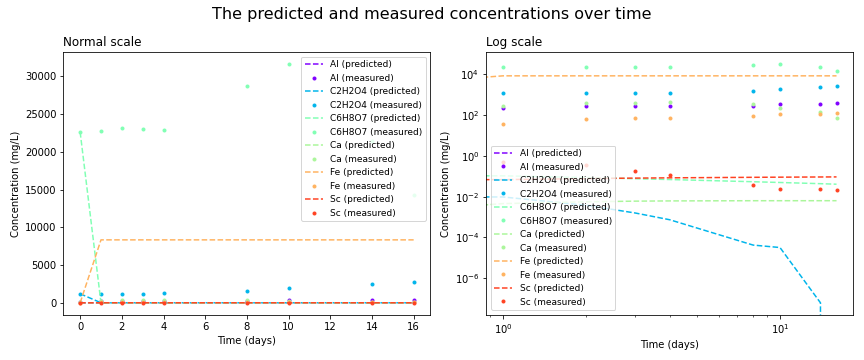
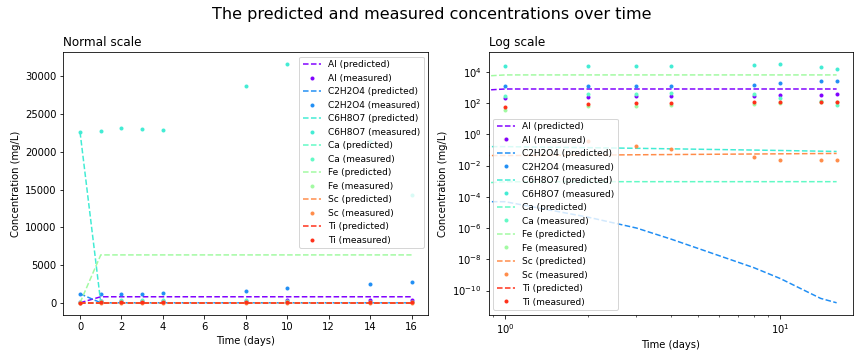
Add method to save acid production results

diff --git a/src/acid_production.py b/src/acid_production.py
@@ -5,7 +5,7 @@
 from src.rate_optimiser import custom_hop
 from scipy.integrate import solve_ivp
 from scipy.optimize import minimize, basinhopping
-# from scipy.optimize import curve_fit
+import matplotlib.pyplot as plt
 import numpy as np
 
 
@@ -18,12 +18,13 @@ r = 0.29370
 # Initial guess of fixable parameters
 class AcidAniger:
     
-    def input( self, measurements ):
+    def input( self, measurements, var_names ):
 
         # Set input attributes
         setattr( self, 'states_m', measurements[0][:, 1:] ) # measured states
-        setattr( self, 'species_m', measurements[1][1:] ) # measured species
+        setattr( self, 'vars_m', measurements[1][1:] ) # measured variables
         setattr( self, 'eval_times', measurements[0][:, 0] ) # times at which to evaluate the soln
+        setattr( self, 'var_names', var_names ) # times at which to evaluate the soln
 
         # Set maxium of the measured states
         setattr( self, 'max_measured', np.max( self.states_m ) )
@@ -122,23 +123,73 @@ class AcidAniger:
             callback=None
         ).x 
 
+        # Get optimal predicted states
+        states_p = self.solve_system( optimal_params )
+        
+        # Set results as attributes
+        setattr( self, 'popt', optimal_params )
+        setattr( self, 'states_p', states_p )
+
         return optimal_params
         
 
-    # def fit( self, params_0 ):
+    def save_results( self, eval_times=None, ignore=None, predicted=True, measured=True ): 
         
-    #     f = self.solve_flat_visible_system
-            
-    #     # xdata = np.tile( self.eval_times, 3 ) 
-    #     ydata = self.states_m.flatten()
-    #     xdata = []
-    #     # for i in range(0,3):
-            
-    #     popt, pcov = curve_fit(
-    #         f, 
-    #         xdata=xdata,
-    #         ydata=ydata,
-    #         p0=params_0
-    #     )
+        # Update predicted states, if required
+        if eval_times is None:
+            # Use existing attributes
+            eval_times = self.eval_times
+            states_p = self.states_p
+        else:
+            # Given evaluation times, derive new prediction 
+            states_p = self.solve_system( self.optimal_params, t_eval=eval_times )
+        
+        # Plot predicted and measured states
+        if ignore is None:
+            ignore = [ s for s in self.var_names if s not in self.vars_m]
+        colours = plt.cm.rainbow(np.linspace(0, 1, len(self.var_names)))
+        fig, axes = plt.subplots(1, 2, figsize=(12, 5))
+        for ax in axes:
+            # Plot predicted states
+            for i, s in enumerate( self.var_names ):
+                if s not in ignore:
+                    if predicted:
+                        ax.plot( 
+                            self.eval_times,
+                            states_p[i, :],
+                            linestyle='dashed',
+                            label=s + ' (predicted)',
+                            c=colours[i]
+                    )
+                    if measured and s in self.vars_m:
+                        j = self.vars_m.index(s)
+                        ax.plot( 
+                            self.eval_times,
+                            self.states_m[:, j],
+                            linestyle = 'None',
+                            marker='.',
+                            ms=6,
+                            label=s + ' (measured)',
+                            c=colours[i]
+                        )
+        # Set legend and axes' lables
+            _ = ax.legend(loc='best', prop={'size': 9})
+            _ = ax.set_xlabel('Time (days)')
+            _ = ax.set_ylabel('Concentration (mg/L)')
+        # Adjust 2nd axis scale
+        _ = axes[1].set_xscale('log')
+        _ = axes[1].set_yscale('log')
+        axes[0].set_title('Normal scale', loc='left')
+        axes[1].set_title('Log scale', loc='left')
+        # Tidy and save
+        fig.suptitle( 'The predicted and measured concentrations over time', fontsize=16 )
+        _ = fig.tight_layout()
+        _ = fig.savefig('results/acid_production/plots/test_k_optimal_predicted.png', dpi=72)
+    #     
 
-    #     return popt, pcov
+    #     # Save results to .csv
+    #     print( 'Predicted states', states_p.yout )
+    #     np.savetxt('results/states/predicted_states.csv', states_p.yout, delimiter=',')
+    #     np.savetxt('results/states/vars.csv', self.vars, fmt='%s', delimiter=',')
+    #     np.savetxt('results/states/eval_times.csv', states_p.xout, delimiter=',')
+    #     np.savetxt('results/kinetics/optimal_rate_params.csv', self.optimal_rate_params, delimiter=',')

diff --git a/get_acids.py b/get_acids.py
@@ -5,22 +5,36 @@ from src.utils import load_csv
 import numpy as np
 a = AcidAniger()
 
+#------------------------------------------------------------------------------------------
 
 # Load input
-a.input( load_csv( csv_name='acid_production/measured_data' ) )
-print('\nMeasured species\n', a.species_m)
+var_names = ['Biomass', 'Substrate', 'Citric acid', 'Oxalic acid', 'Gluconic acid']
+a.input( 
+    load_csv( csv_name='acid_production/measured_data' ),
+    var_names
+)
+
+print('\nMeasured vars\n', a.vars_m)
 print('Measured states\n', a.states_m)
 print('Evaluation times\n', a.eval_times)
 
+#------------------------------------------------------------------------------------------
 
-# # Set initial conditions / params
+# Set initial conditions, model parameters, and var_names
+
 x0 = 4 # mg/L 
 s0 = 125000#625000 # [substrate] at t=0 (sucrose) mg/L
 p0 = [ a.states_m[0, i] for i in range(0,3) ] # mg/L
 f0 = [x0, s0, *p0]
 a.set_initial_conditions( f0 )
-print( 'Initial conditions\n', a.f0 )
+
 params_0 = ( 0.5, 0.01704, 1, 0.2, 0.2, 0.4 )
+
+
+
+print( 'Initial conditions\n', a.f0 )
+
+#------------------------------------------------------------------------------------------
 
 # # Test solution with initial model params
 # t = sorted( np.concatenate((
@@ -37,15 +51,22 @@ print(f)
 # # f_model = a.cost( params_0 )
 # # print( 'f_model', f_model )
 
+#------------------------------------------------------------------------------------------
+
+# Optimise parameters
 optimal_params = a.optimise_basinhop( 
     params_0, 
     n_hops=1,
     display=True 
 )
 print( 'Optimal parameters\n', optimal_params )
-t = a.eval_times
-f_optimal = a.solve_system( optimal_params )#, t_eval=t )
+f_optimal = a.solve_system( optimal_params )
 print( 'Optimal output\n', f_optimal )
+
+#------------------------------------------------------------------------------------------
+
+# Save results
+a.save_results( ignore=[] )#  s for s in a.var_names if s != 'Substrate' ] )
 
 # # Fit solution to measured data
 # # popt, pcov = a.fit( params_0 )
